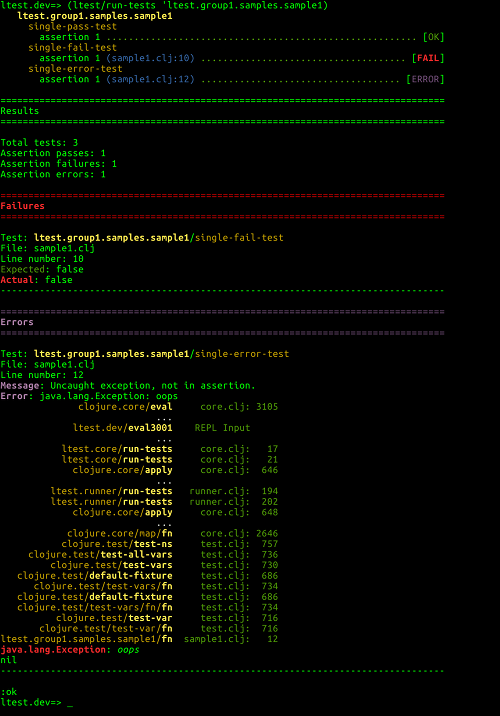
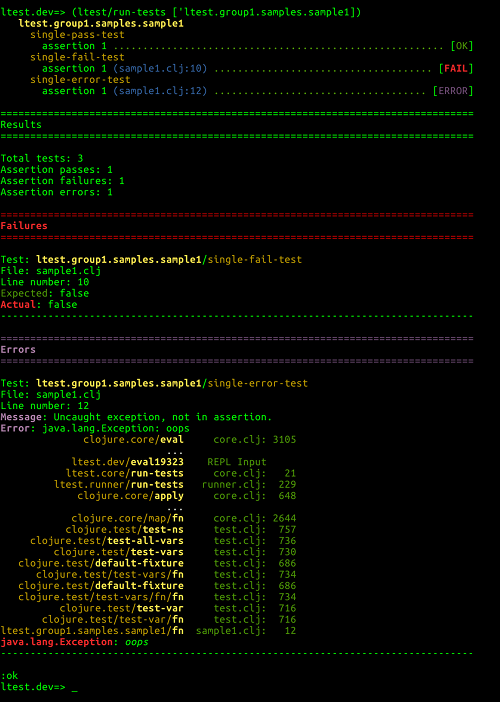
Updated usage docs for latest changes in API.

Changed region(s): [[0.0, 0.0, 0.93, 0.9274], [0.0, 0.9573, 0.12, 0.9872]]

diff --git a/README.md b/README.md
@@ -75,7 +75,7 @@ following example passing just one test namespace, but any number may be
 passed as additional arguments:
 
 ```clj
-(ltest/run-tests 'ltest.group1.samples.sample2)
+(ltest/run-tests ['ltest.group1.samples.sample1])
 ```
 
 Here's is a screenshot of this call's result in the ltest dev environment
